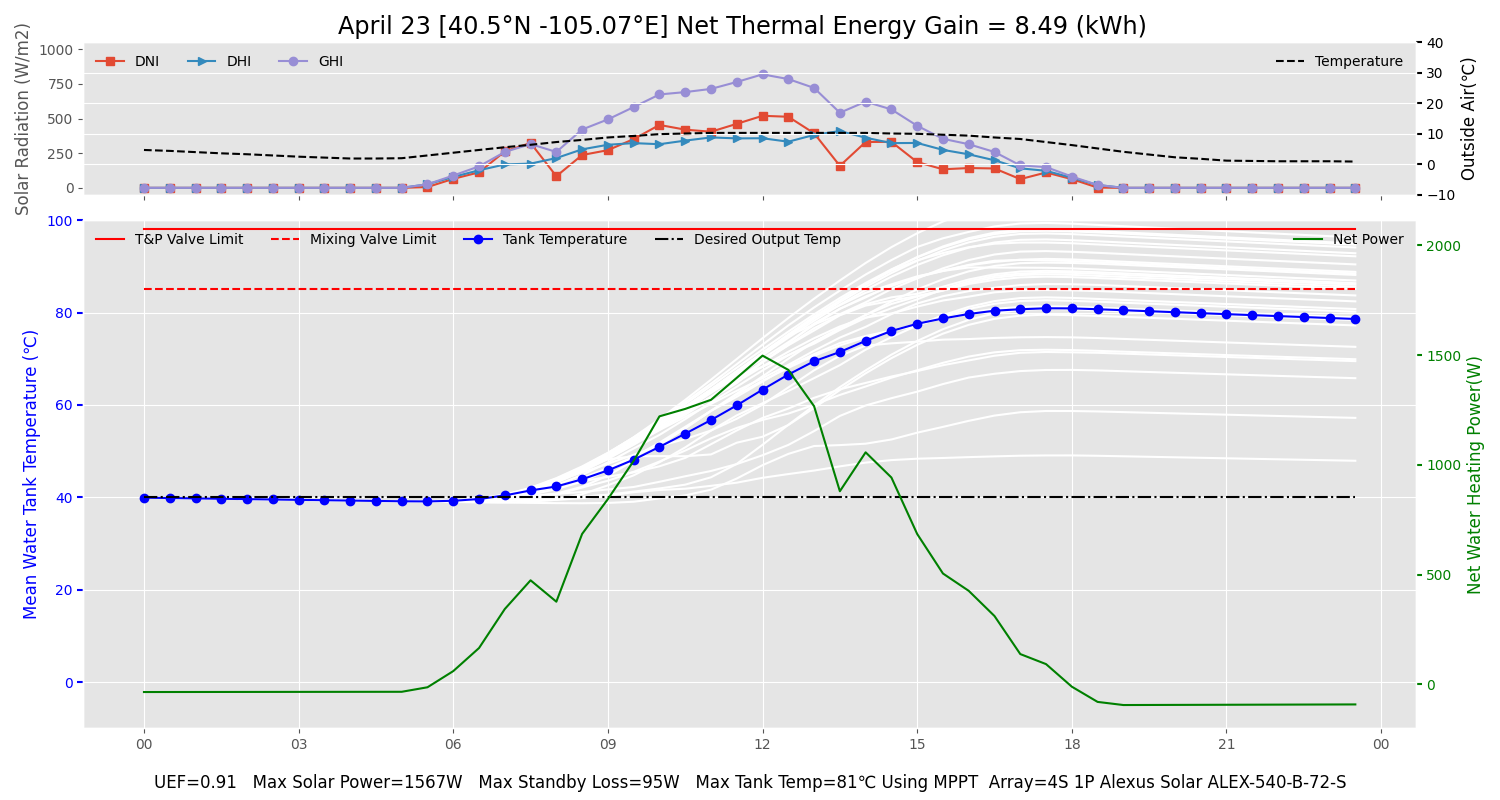
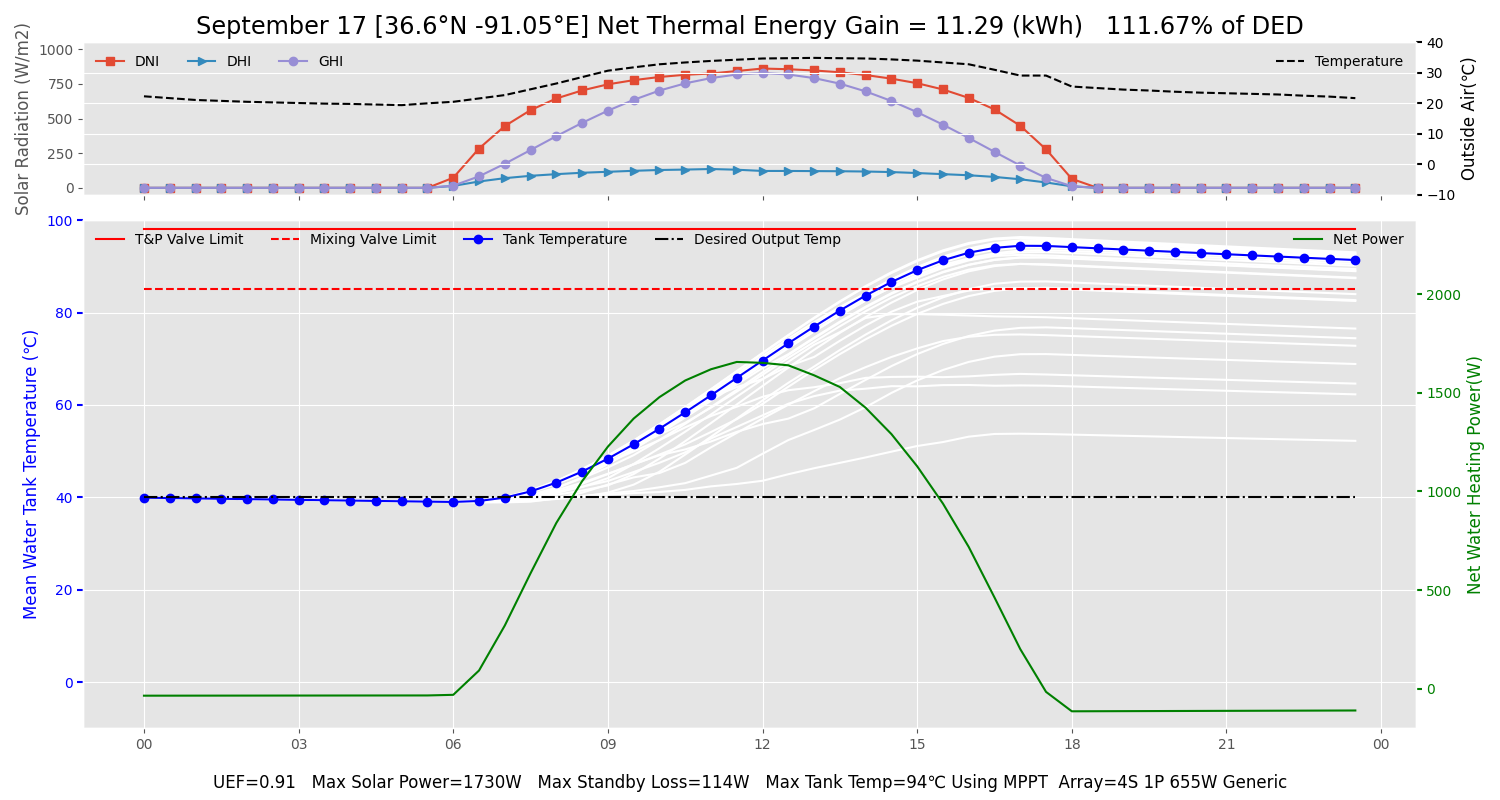
better graph copy

diff --git a/src/routes/+page.svelte b/src/routes/+page.svelte
@@ -63,7 +63,7 @@
 		let pwr = nominalPower / 1000.0;
 		url =
 			url +
-			`day=${day}&lat=${round($pv.lat)}&lng=${round($pv.lng)}&tilt=${$pv.elevation}&azimuth=${$pv.azimuth}&pwr=${nominalPower}&losses=${$pv.losses}&module_type=${$pv.selectedModuleTypeId}&liters=${$pv.tankSize}&uef=${$pv.energyFactor}&startingTemp=${$pv.hotWaterOutTemp}&Rw=${wireResistance}&Re=${Re}&pps=${$pv.panelsPerString}&ps=${$pv.parallelStrings}&MN=${$pv.selectedModuleName}`;
+			`day=${day}&lat=${round($pv.lat)}&lng=${round($pv.lng)}&tilt=${$pv.elevation}&azimuth=${$pv.azimuth}&pwr=${nominalPower}&losses=${$pv.losses}&module_type=${$pv.selectedModuleTypeId}&liters=${$pv.tankSize}&uef=${$pv.energyFactor}&startingTemp=${$pv.hotWaterOutTemp}&Rw=${wireResistance}&Re=${Re}&pps=${$pv.panelsPerString}&ps=${$pv.parallelStrings}&MN=${$pv.selectedModuleName}&demand=${dailyEnergyDemand}`;
 
 		const elem = document.getElementById('solarGraph');
 		if (elem) {
@@ -114,7 +114,7 @@
 						month: months[index],
 						days: daysInMonth(year, index),
 						insolation: data.outputs.solrad_monthly[index],
-						Edemand: dailyDemand * daysInMonth(year, index),
+						Edemand: dailyEnergyDemand * daysInMonth(year, index),
 						Esolar: data.outputs.dc_monthly[index] / 1000.0,
 						savings: (data.outputs.dc_monthly[index] / 1000.0) * avgPowerPrice,
 						Epercent: 0,
@@ -179,7 +179,7 @@
 	let nominalPower = 0;
 	let energyToHeatOneTank = 0;
 	let tanksUsedPerDay = 0;
-	let dailyDemand = 0;
+	let dailyEnergyDemand = 0;
 	let elementR = 0;
 	let mismatch = 0;
 	let Rsource = 0;
@@ -188,7 +188,6 @@
 	let avgPowerPrice = 0;
 	let wireResistance = 0;
 	let paybackYears = 0;
-	let dailyEnergyDemand = 0;
 	let stringVoc = 0;
 	let wireLosses = 0;
 
@@ -207,11 +206,10 @@
 	$: powerPerPanel = $pv.Vmp * $pv.Imp;
 	$: nominalPower = powerPerPanel * $pv.panelsPerString * $pv.parallelStrings;
 	$: stringVoc = $pv.Voc * $pv.panelsPerString;
-	$: dailyDemand = round((tanksUsedPerDay * energyToHeatOneTank) / 3600e3);
+	$: dailyEnergyDemand = round((tanksUsedPerDay * energyToHeatOneTank) / 3600e3);
 	$: Rmp = ($pv.Vmp * $pv.panelsPerString) / $pv.Imp / $pv.parallelStrings;
 	$: Rsource = Rmp;
 	$: mismatch = Math.abs(100 - ((elementR + wireResistance) / Rsource) * 100.0);
-	$: dailyEnergyDemand = (tanksUsedPerDay * energyToHeatOneTank) / 3600e3;
 	$: wireLosses = $pv.Imp * $pv.parallelStrings * ($pv.Imp * $pv.parallelStrings) * wireResistance;
 </script>
 
@@ -228,6 +226,7 @@
 	</li>
 	<li style="">
 		<figure>
+			<small>Mouseover For Labels</small>
 			<HousePic style="max-width: 350px;" />
 			<figcaption>A simple, direct current, grid optional water heater.</figcaption>
 		</figure>
@@ -561,22 +560,67 @@
 <br />
 <div class="sim-sidebar" id="step5">
 	<span data-text>
-		<h2>Step 4: Simulate 1 Day</h2>
+		<h2>Step 4: Simulate 1 Day <small>(Check Tank Sizing)</small></h2>
 		<p>
-			Click a <b>Graph random day</b> button a few times until you find a nice sunny day (lots of
-			<b>Solar Radiation</b>). This graph uses the TMY-{year} weather data to run a daily PV simulation
-			to help you size your array. The important thing to look at here is
-			<span class="blue"> <b>Tank Temperature</b></span>.
+			Click a <b>Graph random day</b> button a few times until you find a nice sunny day, with lots
+			of
+			<span class="red"
+				><b
+					>DNI(<img
+						alt="Red Squares"
+						src="DNI_Squares.png"
+						style="height: 20px; width:40px; margin:0;"
+					/>)</b
+				></span
+			>. This graph simulates your PV system at 30min intervals using weather data from
+			{year}. The important thing to look at here is
+			<span class="blue">
+				<b>Tank Temperature</b>(<img
+					alt="Blue Circles"
+					src="TankTempCircles.png"
+					style="height: 20px; width:40px; margin:0;"
+				/>)</span
+			>.
 		</p>
 		<p>
-			If your <b>Net Thermal Energy Gain</b> is more than
-			<b>Daily Energy Demand ({round(dailyEnergyDemand)}kWh)</b>
-			on a sunny day, then your solar array is oversized. If the
-			<span class="blue"><b>Tank Temperature</b></span>
-			is going over the
-			<span class="red"><b>Mixing Valve Limit</b></span>
-			and you still are making less then 2/3 of your <b>Daily Energy Demand</b>, then your tank is
-			undersized.
+			If the
+			<span class="blue"
+				><b>Tank Temperature</b>(<img
+					alt="Blue Circles"
+					src="TankTempCircles.png"
+					style="height: 20px; width:40px; margin:0;"
+				/>)</span
+			>
+			is going way over the
+			<span class="red"
+				><b>Mixing Valve Limit</b>(<img
+					alt="Red Dash"
+					src="MixingValveLimitDashLine.png"
+					style="height: 20px; width:40px; margin:0;"
+				/>)</span
+			>
+			and you still are making less than 70 <b>% of DED</b> (Daily Energy Demand), then your
+			tank is undersized. 
+		</p>
+		<p>
+			If, on a sunny day, your <b>% of DED</b> is between 75 and 150, AND your
+			<span class="blue"
+				><b>Tank Temperature</b>(<img
+					alt="Blue Circles"
+					src="TankTempCircles.png"
+					style="height: 20px; width:40px; margin:0;"
+				/>)</span
+			>
+			is not going over the
+			<span class="red"><b>T&P Valve Limit</b>(<img
+				alt="Red Line"
+				src="TPValveLimitRedLine.png"
+				style="height: 20px; width:40px; margin:0;"
+			/>) </span>
+			then your sizing is near optimal.
+		</p>
+		<p>
+			On the days when you collect more then 100 <b>% of DED</b>, the tank can store energy overnight in case the next day is cloudy.
 		</p>
 
 		<div class="smol-css-grid">
@@ -661,10 +705,10 @@
 
 <div class="sim-sidebar" id="step4">
 	<span data-text>
-		<h2>Step 5: Simulate 1 Year</h2>
+		<h2>Step 5: Simulate 1 Year (Estimate ROI)</h2>
 		<p>
 			Click <b>Simulate Monthly Generation</b> This will feed the simulator with the solar panel
-			data you entered above and Typical Meteorological Year Data (TMY-{year}) for your lat/lng.
+			data you entered above and Typical Meteorological Year Data ({year}) at 30min intervals for your location. We then summarize the results by month.
 		</p>
 
 		<button on:click={(e) => updateMonthlyTable(e)}>Simulate Monthly Generation</button> with

diff --git a/src/routes/faq/+page.svelte b/src/routes/faq/+page.svelte
@@ -10,12 +10,13 @@
 <div class="text-column">
 	<h1>FAQ</h1>
 	<figure class="floatRightBig">
+		<small>Mouseover For Labels</small>
 		<HousePic style="" />
 		<!-- <figcaption>Those lazy trees get plenty of free solar power. Why not you?</figcaption> -->
 		<!-- <figcaption>Those lazy trees get plenty of free photons. Why not collect your share?</figcaption> -->
 		<!-- <figcaption>Those lazy trees stand around all day, getting fed free photons. Why not wet your beak?</figcaption> -->
 		<figcaption>
-			Those lazy trees stand around all day, gorging themselves on free photons and farting out
+			Those lazy trees stand around all day, gorging themselves on free solar power and farting out
 			highly combustible gasses. If they can do it, so can you!
 		</figcaption>
 	</figure>
@@ -46,7 +47,7 @@
 			experience it would be good to find an experienced person to help with the wiring part. That
 			said, this is a very simple circuit we are building. Be sure to install all the wires in
 			conduit to reduce fire risk. Bond the solar rails and negative side of the array to a ground
-			rod in case of lightning. Turn the switch off and check for current with a DC clamp meter
+			rod in case of lightning. Turn the switch off and check for voltage 
 			before messing with the wires (or work at night).
 		</p>
 	</article>
@@ -74,7 +75,7 @@
 	<article class="faq">
 		<h2>How much energy can I store in my water heater?</h2>
 		<p>
-			If you assume the water starts off warm, heating from 40°C to 85°C, stores 9.89kWh. If you
+			If you assume the water starts off warm, heating 50 gallons from 40°C to 85°C, stores 9.89kWh. If you
 			assume you are pulling water from the cold ground, heating 50 gallons from 5°C(ground temp) to
 			85°C stores 17.5kWh. A Tesla Powerwall, stores about 13.5kWh. For both the water heater and
 			the Powerwall, you can expect an efficiency of about 90%. The powerwall cost around $9,300,
@@ -143,6 +144,7 @@
 			benefit! In my county, the permits would double the install cost. Off grid also means there
 			are no delays waiting for approvals to turn on your system. Mounting the panels on a shed
 			instead of your house roof can avoid the need for permits, this was the case in my locale.
+			You should still follow the local electrical and building codes even if you don't get a permit though. 
 		</p>
 	</article>
 
@@ -181,7 +183,7 @@
 			they always manage to start beeping at 3am). They cost more and are less reliable then the old
 			fashioned electric water heater. They steal heat from the indoor air and dump it to the water,
 			which is great in summer but less great in winter. If you already have a heat pump water
-			heater, you may be able to hook up the bottom element to solar, but I have not tried this
+			heater, you may be able to hook up the bottom/backup element to solar, but I have not tried this
 			myself.
 		</p>
 	</article>
@@ -197,7 +199,7 @@
 			panels. This is so firefighters/electricians/plumbers/etc can turn your panels off while they
 			are working. Search for "Solar Disconnect Switch" or "Solar Circuit Breaker Waterproof
 			Isolator". You can get a combo unit that is both a switch and a circuit breaker. You should
-			also mount a second shutoff switch near the water heater to make working on it safer.
+			also mount a second shutoff switch indoors near the water heater to make working on it safer.
 		</p>
 	</article>
 

diff --git a/src/routes/instructions/+page.svelte b/src/routes/instructions/+page.svelte
@@ -10,8 +10,9 @@
 <div class="text-column">
 	<h1>Instructions</h1>
 	<figure class="floatRightBig">
+		<small>Mouseover For Labels</small>
 		<HousePic style="" />
-		<figcaption>Mouseover schematic to show labels</figcaption>
+		<figcaption>I spent way too much time on this animation, so I am using it wherever I can. You're welcome.</figcaption>
 	</figure>
 	<ol type="i">
 		<li>
@@ -20,7 +21,7 @@
 				<li>Design your system using the simulator.</li>
 				<li>Fill in what you know, leave the rest on defaults.</li>
 				<li>Simulate your design to figure out the minium number of panels required.</li>
-				<li>The sim will estimate the yearly cost of power used for water heating</li>
+				<li>The sim will estimate the yearly cost of power used for water heating.</li>
 				<li>
 					Look at your water heater and figure out what kind of fittings you will need to install
 					mixing valve.

diff --git a/python-flask-app/app.py b/python-flask-app/app.py
@@ -426,6 +426,7 @@ def nsrdb_plot(
     nominalPower=1000,
     losses=14,
     panelParams=None,
+    demand=5.55
 ):
     global tmp_folder
     timeSteps = 24
@@ -524,8 +525,10 @@ def nsrdb_plot(
         d = convert_day_of_year(day)
         lat = filename.split('_')[1]
         lng = filename.split('_')[2]
+
+        percent_from_solar = (total_kWh / demand) * 100
         ax.set_title(
-            f"{d} [{lat}°N {lng}°E] Net Thermal Energy Gain = {total_kWh:.2f} (kWh) {fixedRTitle}",
+            f"{d} [{lat}°N {lng}°E] Net Thermal Energy Gain = {total_kWh:.2f} (kWh) {fixedRTitle} {percent_from_solar:.2f}% of DED",
             size="xx-large",
         )
 
@@ -612,6 +615,7 @@ def getGraph():
     parallelStrings = int(request.args.get("ps", "1"))
     elementR = float(request.args.get("Re", "10.2"))
     moduleName = request.args.get("MN", "fake test panel")
+    demand = float(request.args.get("demand", "10.00"))
 
     panelParams = findPanelByName(moduleName)
 
@@ -640,6 +644,7 @@ def getGraph():
         losses=losses,
         nominalPower=power_kW,
         panelParams=panelParams,
+        demand=demand
     )
 
     if os.path.exists(graph):

diff --git a/python-flask-app/readme.md b/python-flask-app/readme.md
@@ -20,7 +20,7 @@ pip install -r requirements.txt
 
 set NRDSBAPIKEY = "your api key from NREL"
 
-flask run dev
+flask run --debug
 
 curl -X GET <endpoint-url>/
 
